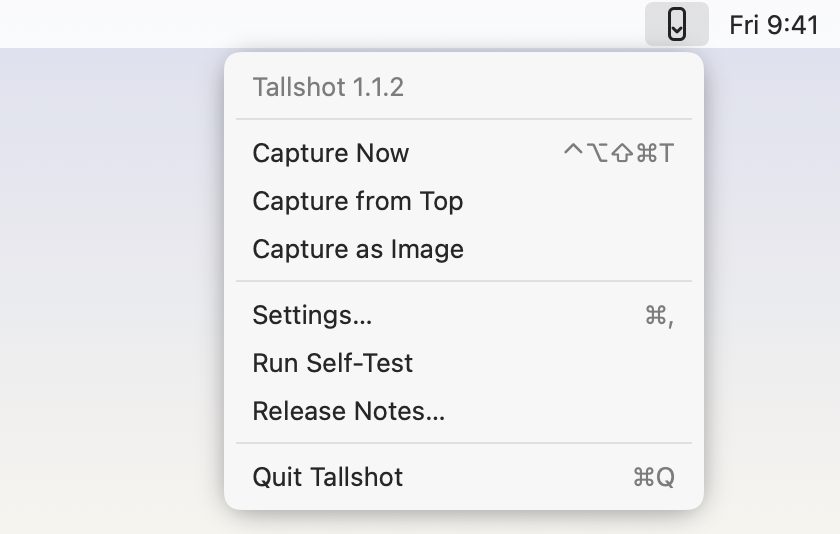
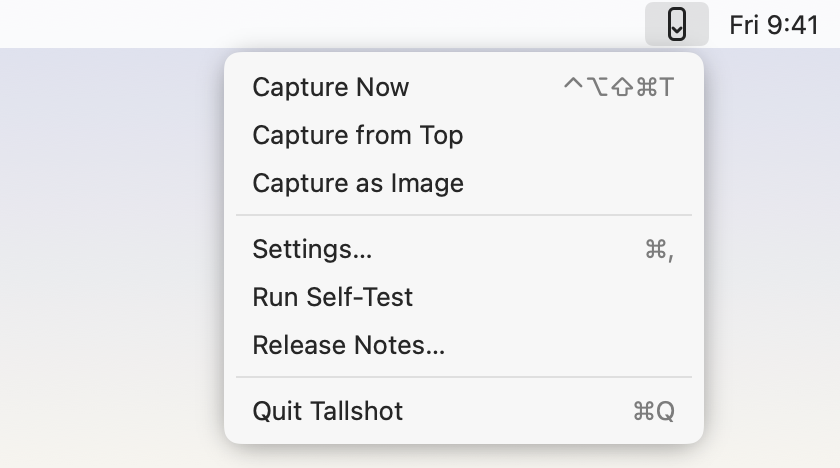
Version line only at the bottom of Settings
The menu now starts with Capture Now. The version check runs the built app
with --settings-version-is, which compares Settings' own version line with
Info.plist and project.yml. Menu picture re-rendered; README, INSTALL and
release notes updated (release notes also list the 1.1.3 hotkey rows).

diff --git a/App/Sources/TallshotApp.swift b/App/Sources/TallshotApp.swift
@@ -9,9 +9,9 @@ enum TallshotEntry {
         if CommandLine.arguments.contains(Permissions.checkScreenRecordingFlag) {
             exit(CGPreflightScreenCaptureAccess() ? Permissions.screenRecordingOnExit : Permissions.screenRecordingOffExit)
         }
-        // For scripts/test-version.sh: exits 0 if the menu's version line is exactly the given text.
-        if let i = CommandLine.arguments.firstIndex(of: "--menu-version-is"), i + 1 < CommandLine.arguments.count {
-            exit(MenuContent.versionLine == CommandLine.arguments[i + 1] ? 0 : 1)
+        // For scripts/test-version.sh: exits 0 if the version line at the bottom of Settings is exactly the given text.
+        if let i = CommandLine.arguments.firstIndex(of: "--settings-version-is"), i + 1 < CommandLine.arguments.count {
+            exit(SettingsView.versionLine == CommandLine.arguments[i + 1] ? 0 : 1)
         }
         TallshotApp.main()
     }
@@ -47,13 +47,7 @@ struct MenuContent: View {
     @ObservedObject var model: AppModel
     @ObservedObject var settings: Settings
 
-    /// "Tallshot 1.1.1", read from this app's own Info.plist, so it can't go out of date.
-    static var versionLine: String { AppVersion.title(info: Bundle.main.infoDictionary) }
-
     var body: some View {
-        Button(Self.versionLine) {}
-            .disabled(true)
-        Divider()
         Button("Capture Now") { captureSoon(fromTop: false) }
             .keyboardShortcut(settings.captureHotkey)
         Button("Capture from Top") { captureSoon(fromTop: true) }

diff --git a/App/Sources/SettingsView.swift b/App/Sources/SettingsView.swift
@@ -8,6 +8,10 @@ struct SettingsView: View {
     @ObservedObject var model: AppModel
     @State private var tab = 0
 
+    /// "Tallshot 1.1.3" at the bottom of Settings (the only place the version shows), read from this
+    /// app's own Info.plist, so it can't go out of date.
+    static var versionLine: String { AppVersion.title(info: Bundle.main.infoDictionary) }
+
     var body: some View {
         VStack(spacing: 0) {
             Picker("", selection: $tab) {
@@ -27,7 +31,7 @@ struct SettingsView: View {
                 }
             }
             .padding(20)
-            Text(AppVersion.title(info: Bundle.main.infoDictionary)).font(.caption).foregroundStyle(.secondary).padding(.bottom, 12)
+            Text(Self.versionLine).font(.caption).foregroundStyle(.secondary).padding(.bottom, 12)
         }
         .frame(width: 520)
     }

diff --git a/tools/DocRenderer/main.swift b/tools/DocRenderer/main.swift
@@ -95,8 +95,6 @@ struct MenuPicture: View {
             .padding(.horizontal, 10).frame(height: 24)
             .background(Color.white.opacity(0.85))
             VStack(alignment: .leading, spacing: 2) {
-                row("Tallshot 1.1.2", nil).foregroundStyle(.secondary)
-                Divider().padding(.vertical, 3)
                 row("Capture Now", "⌃⌥⇧⌘T")
                 row("Capture from Top", nil)
                 row("Capture as Image", nil)

diff --git a/Packages/TallshotCore/Sources/TallshotCore/SharedText.swift b/Packages/TallshotCore/Sources/TallshotCore/SharedText.swift
@@ -225,7 +225,7 @@ public enum PointerReset {
     }
 }
 
-/// The version line at the top of the menu and in Settings, from the app's own Info.plist.
+/// The version line at the bottom of Settings, from the app's own Info.plist.
 public enum AppVersion {
     /// "Tallshot 1.1.1", from `CFBundleShortVersionString`; "Tallshot" if it's missing.
     public static func title(info: [String: Any]?) -> String {

diff --git a/docs/RELEASE_NOTES.md b/docs/RELEASE_NOTES.md
@@ -2,6 +2,11 @@ Tallshot turns any scrolling window into one tall screenshot with a single hotke
 
 Signed with a Developer ID and notarized by Apple, so it opens with no warning.
 
+**Changed in 1.1.3**
+
+- **The version shows only at the bottom of Settings.** The menu starts with Capture Now; the version line is gone from its top.
+- **The three hotkey rows in Settings behave alike.** Each has Clear, the main Capture hotkey also has Reset to Default, and keys another row already uses aren't saved.
+
 **Fixed in 1.1.2**
 
 - **Scrolling captures and the self-test work again.** 1.1.0 and 1.1.1 parked the pointer with a real "mouse moved" event before the first picture, and the page under it reacted while the pictures were compared, so captures could stop with "the page jumped or changed". The pointer now moves silently during a capture, and gets its real mouse move only after the last picture, so it still never stays a crosshair.
@@ -15,7 +20,7 @@ Signed with a Developer ID and notarized by Apple, so it opens with no warning.
 - **Text captures.** Point at Ghostty, Terminal, Notes, TextEdit or a code editor that shares all its text with macOS and press the hotkey. Tallshot copies the whole text as Markdown and saves it (plus PDF and Word if those are on), with no scrolling and no screenshots.
 - **Only when the text is complete.** Browsers and chat apps share only what's on screen, so they still get a scrolling screenshot.
 - **Capture as Image** in the menu (optional hotkey, `tallshot://capture?as=image`) always takes the scrolling screenshot. Settings → General → When an app shares its text chooses the default.
-- **The pop-up says which mode ran.** The menu's first line and the bottom of Settings show the version; **Release Notes…** opens this page in your browser.
+- **The pop-up says which mode ran.** The bottom of Settings shows the version; **Release Notes…** in the menu opens this page in your browser.
 - **The pointer never stays a crosshair** after a capture (Ghostty shows one while Option, part of the hotkey, is held).
 
 **Requirements:** macOS 14 Sonoma or later. Tallshot asks for Screen Recording and Accessibility on first launch, with pictures of where to click.

diff --git a/docs/INSTALL.md b/docs/INSTALL.md
@@ -39,7 +39,7 @@ Each step turns green by itself. Then click **Run Self-Test**: Tallshot captures
 - **Capture from Top** in the menu scrolls to the top first. From the menu, Tallshot captures the front window; with a hotkey, the window under the pointer.
 - **Terminals and documents give you their text.** When the pane is a terminal, Notes, TextEdit or a code editor that shares all its text with macOS, Tallshot copies the text as Markdown and saves it (plus PDF and Word if those are on) without scrolling or taking pictures. Browsers and chat apps share only what's on screen, so they always get a scrolling screenshot. The pop-up says which one ran.
 - **Capture as Image** in the menu always takes a scrolling screenshot, even of a terminal.
-- The top line of the menu shows which version you have (also at the bottom of Settings). **Release Notes…** opens the releases page in your browser.
+- The bottom of Settings shows which version you have. **Release Notes…** in the menu opens the releases page in your browser.
 - Esc, a click, a key or moving the mouse stops it and keeps what was captured.
 - Settings (menu → Settings…):
   - **General:** the hotkeys, including an optional one for Capture as Image (with a warning under the field only when macOS refuses the keys or uses them for its own shortcut), and a **Test Hotkey** button that confirms a hotkey reaches Tallshot. Every hotkey row has **Clear** (the menu works without hotkeys), the main Capture hotkey also has **Reset to Default**, and keys another row already uses aren't saved; When an app shares its text (Copy the text, no scrolling, or Always take a scrolling screenshot); Capture (pane under the pointer, or the whole window); Open at login.

diff --git a/README.md b/README.md
@@ -26,7 +26,7 @@ Tallshot is a free, open-source Mac menu bar app that turns any scrolling window
 - **File names that say what's in them.** For example `Arc - example.com - Chat test - 2026-11-07 at 14.05 - Tallshot.png`: the app, the site's domain in a browser, the window or page title, the date and time. Nothing goes in from a password field that has the keyboard or a Chrome Incognito window. The title and domain go only in the file names, not inside the files (the PDF's title is just "Tallshot capture"); the one exception is the Markdown file's link to the PNG beside it. Settings → Output → File names → Date only gives `2026-11-07 at 14.05.22 - Tallshot.png`.
 - **It measures every step.** If an app scrolls further than asked, Tallshot asks for less and walks back until the pictures overlap again. If a capture stops early, the pop-up says so and why.
 
-<p align="center"><img src="docs/images/menu.png" width="420" alt="The Tallshot menu: the version line, Capture Now, Capture from Top, Capture as Image, Settings, Run Self-Test, Release Notes, Quit"></p>
+<p align="center"><img src="docs/images/menu.png" width="420" alt="The Tallshot menu: Capture Now, Capture from Top, Capture as Image, Settings, Run Self-Test, Release Notes, Quit"></p>
 
 ### From Raycast, Shortcuts or a script
 
